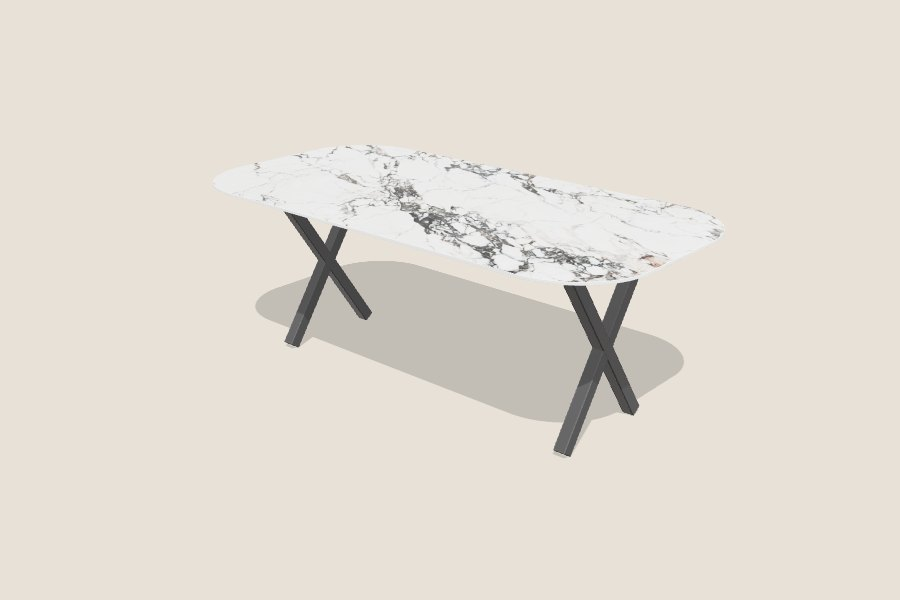
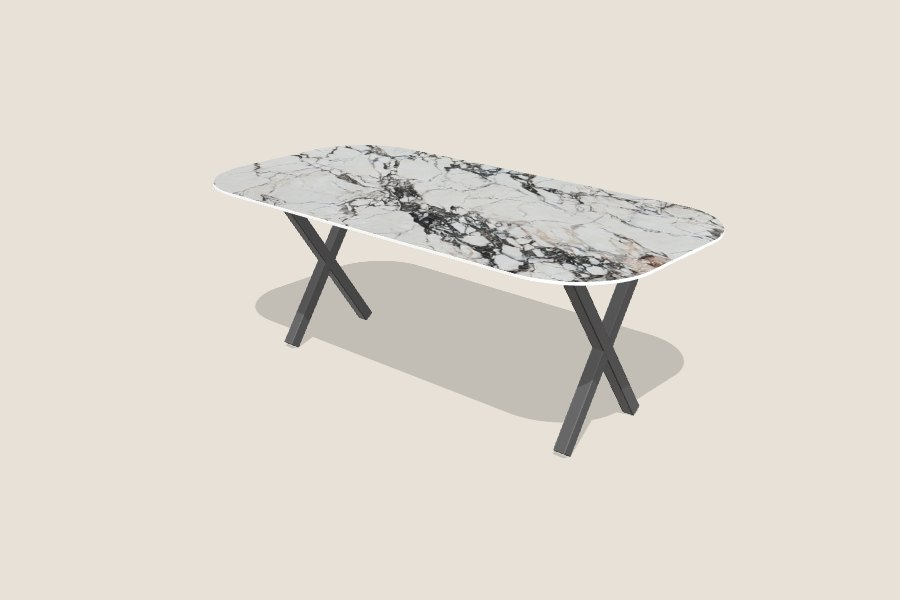
DKAS 3D: color de las piedras calibrado contra las fotos reales (sin deslavar)
Claude-Session: https://claude.ai/code/session_01XZgzLypF4xPq3GVo6zprEi

Changed region(s): [[0.2178, 0.24, 0.8089, 0.48]]

diff --git a/index.html b/index.html
@@ -184,4 +184,4 @@ footer .bot{display:flex;gap:10px;justify-content:center;flex-wrap:wrap}
 <nav class="bar" id="bar"><button class="btn" id="atras">Atrás</button><span id="cuenta"></span><button class="btn oro" id="sig">Siguiente</button></nav>
 <footer><img src="img/dkas-claro.png" alt="DKAS"><p class="et">Piedra sinterizada · Muebles · Diseño</p><div class="bot"><a class="btn chico" data-wa="0" href="https://wa.me/525535977670" target="_blank" rel="noopener"><svg viewBox="0 0 24 24"><path fill="currentColor" d="M12 2a10 10 0 0 0-8.6 15.1L2 22l5-1.3A10 10 0 1 0 12 2Zm4.5 12.1c-.2-.1-1.5-.7-1.7-.8s-.4-.1-.6.1-.7.8-.8 1-.3.2-.5.1a6.7 6.7 0 0 1-3.3-2.9c-.3-.4.2-.4.7-1.3a.5.5 0 0 0 0-.5l-.8-1.8c-.2-.5-.4-.4-.6-.4h-.5a1 1 0 0 0-.7.3 3 3 0 0 0-.9 2.2 5.2 5.2 0 0 0 1.1 2.7 11.8 11.8 0 0 0 4.5 4c1.7.7 2.3.8 3.2.6a2.7 2.7 0 0 0 1.8-1.3 2.2 2.2 0 0 0 .1-1.3c0-.1-.2-.2-.5-.3Z"/></svg>55 3597 7670</a><a class="btn chico" data-wa="1" href="https://wa.me/525551090027" target="_blank" rel="noopener"><svg viewBox="0 0 24 24"><path fill="currentColor" d="M12 2a10 10 0 0 0-8.6 15.1L2 22l5-1.3A10 10 0 1 0 12 2Zm4.5 12.1c-.2-.1-1.5-.7-1.7-.8s-.4-.1-.6.1-.7.8-.8 1-.3.2-.5.1a6.7 6.7 0 0 1-3.3-2.9c-.3-.4.2-.4.7-1.3a.5.5 0 0 0 0-.5l-.8-1.8c-.2-.5-.4-.4-.6-.4h-.5a1 1 0 0 0-.7.3 3 3 0 0 0-.9 2.2 5.2 5.2 0 0 0 1.1 2.7 11.8 11.8 0 0 0 4.5 4c1.7.7 2.3.8 3.2.6a2.7 2.7 0 0 0 1.8-1.3 2.2 2.2 0 0 0 .1-1.3c0-.1-.2-.2-.5-.3Z"/></svg>55 5109 0027</a></div></footer>
 <div class="modal" id="arm" hidden><div class="caja"><header><b id="ar-tit"></b><button class="btn chico" id="ar-x">Cerrar</button></header><div id="ar-box"><p id="ar-msg"></p></div></div></div>
-<script>window.DAZK_FB={"apiKey":"AIzaSyBBJqI7K_xY9RDPFzAVedS_5EyplehRATg","db":"https://dazk-pedidos-default-rtdb.firebaseio.com"};window.DKAS_WA=[{"label":"55 3597 7670","num":"525535977670"},{"label":"55 5109 0027","num":"525551090027"}];</script><script src="js/three.r128.min.js"></script><script src="js/dkas-core.js?v=6e0b9dbe92"></script><script src="js/dkas-api.js?v=1b95fccc54"></script><script src="js/crea-ui.js?v=2f963c50d7"></script></body></html>
+<script>window.DAZK_FB={"apiKey":"AIzaSyBBJqI7K_xY9RDPFzAVedS_5EyplehRATg","db":"https://dazk-pedidos-default-rtdb.firebaseio.com"};window.DKAS_WA=[{"label":"55 3597 7670","num":"525535977670"},{"label":"55 5109 0027","num":"525551090027"}];</script><script src="js/three.r128.min.js"></script><script src="js/dkas-core.js?v=84f22fd501"></script><script src="js/dkas-api.js?v=1b95fccc54"></script><script src="js/crea-ui.js?v=2f963c50d7"></script></body></html>

diff --git a/js/dkas-core.js b/js/dkas-core.js
@@ -474,6 +474,9 @@
   const D = window.DKAS, T = THREE;
   const cm = v => v / 100;
 
+  // calibración de la piedra contra las fotos reales (se midió el color promedio de cada placa contra el 3D)
+  const PIEDRA_LUZ = Object.assign({ k: 0.75, env: 0.05, cc: 0.2 }, window.DKAS_CAL || {});
+
   function ruido(n, a, b) {
     const c = document.createElement('canvas'); c.width = c.height = n; const x = c.getContext('2d'), im = x.createImageData(n, n);
     for (let i = 0; i < n * n; i++) { const v = a + Math.random() * (b - a); im.data[i * 4] = im.data[i * 4 + 1] = im.data[i * 4 + 2] = v; im.data[i * 4 + 3] = 255; }
@@ -616,8 +619,9 @@
       actual = m; const c = D.calcular(m), M = c.m;
       [mesa, sillas].forEach(g => { while (g.children.length) { const o = g.children.pop(); o.traverse(x => x.geometry && x.geometry.dispose()); } });
       const tx = textura(M.piedra), pul = /statuario|classic|peacock|mont/.test(M.piedra);
-      const cara = new T.MeshPhysicalMaterial({ map: tx.tex, roughness: pul ? 0.12 : 0.38, clearcoat: pul ? 0.6 : 0.1, clearcoatRoughness: 0.15, envMapIntensity: 0.55 });
-      const canto = new T.MeshStandardMaterial({ color: tx.color, roughness: 0.4 });
+      // la piedra se ve con el color de su foto: sin el filtro de cine (tone mapping) que la deslava, y con poco reflejo
+      const K = PIEDRA_LUZ.k, cara = new T.MeshPhysicalMaterial({ map: tx.tex, color: new T.Color(K, K, K), roughness: pul ? 0.18 : 0.45, clearcoat: pul ? PIEDRA_LUZ.cc : 0.04, clearcoatRoughness: 0.2, envMapIntensity: PIEDRA_LUZ.env, toneMapped: false });
+      const canto = new T.MeshStandardMaterial({ color: tx.color.clone().multiplyScalar(K), roughness: 0.45, toneMapped: false });
       const top = new T.Mesh(placa(M.forma, M.L, M.W, D.radio(M), 1.2 - 0.3, 0.15), [cara, canto]); top.position.y = cm(M.H - 1.2 + 0.15); top.castShadow = top.receiveShadow = true; top.name = 'piedra';
       top.userData.canto = canto;
       const mdf = new T.Mesh(placa(c.mdf.forma, c.mdf.L, c.mdf.W, c.mdf.r, 1.2, 0), mdfMat); mdf.position.y = cm(M.H - 2.5 + 0.05); mdf.castShadow = true;

diff --git a/taller.html b/taller.html
@@ -202,4 +202,4 @@ img.sin{min-height:52px}
 </style></head><body>
 <header class="top"><a href="#"><img src="img/dkas-claro.png" alt="DKAS"></a><nav id="top-nav" hidden><a href="#" data-sec="log">Pedidos<span class="lg"> y logística</span></a><a href="#taller" data-sec="taller">Taller<span class="lg"> y creación</span></a><a href="#precios" data-sec="precios">Precios</a><a href="#" id="salir">Salir</a></nav></header>
 <main id="m"></main><div id="toast" hidden></div>
-<script>window.DAZK_FB={"apiKey":"AIzaSyBBJqI7K_xY9RDPFzAVedS_5EyplehRATg","db":"https://dazk-pedidos-default-rtdb.firebaseio.com"};window.DKAS_WA=[{"label":"55 3597 7670","num":"525535977670"},{"label":"55 5109 0027","num":"525551090027"}];</script><script src="js/three.r128.min.js"></script><script src="js/dkas-core.js?v=6e0b9dbe92"></script><script src="js/dkas-api.js?v=1b95fccc54"></script><script src="js/dkas-croquis.js?v=15785b4fab"></script><script src="js/panel.js?v=eefc74f9f1"></script></body></html>
+<script>window.DAZK_FB={"apiKey":"AIzaSyBBJqI7K_xY9RDPFzAVedS_5EyplehRATg","db":"https://dazk-pedidos-default-rtdb.firebaseio.com"};window.DKAS_WA=[{"label":"55 3597 7670","num":"525535977670"},{"label":"55 5109 0027","num":"525551090027"}];</script><script src="js/three.r128.min.js"></script><script src="js/dkas-core.js?v=84f22fd501"></script><script src="js/dkas-api.js?v=1b95fccc54"></script><script src="js/dkas-croquis.js?v=15785b4fab"></script><script src="js/panel.js?v=eefc74f9f1"></script></body></html>
